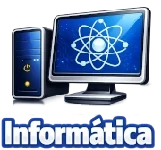
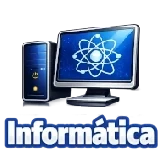
update

diff --git a/pages/inicio.html b/pages/inicio.html
@@ -8,22 +8,22 @@
 
     <div style="grid-template-columns: 1fr 1fr;" class="d-grid gap-3 text-center">
         <div class="p-2">
-            <img style="max-height: 9rem;" src="images/decoracao.webp" alt="icone_decoracao" onclick="carregarPagina('pages/decoracao.html')">
+            <img style="max-height: 9rem;" src="images/decoracao.webp" alt="icone_decoracao" onclick="carregarPaginaRolarTopo('pages/decoracao.html')">
         </div>
         <div class="p-2">
-            <img style="max-height: 9rem;" src="images/utensilios.webp" alt="icone_utensilios" onclick="carregarPagina('pages/utensilios.html')">
+            <img style="max-height: 9rem;" src="images/utensilios.webp" alt="icone_utensilios" onclick="carregarPaginaRolarTopo('pages/utensilios.html')">
         </div>
         <div class="p-2">
-            <img style="max-height: 9rem;" src="images/automotivo.webp" alt="icone_automotivo" onclick="carregarPagina('pages/automotivo.html')">
+            <img style="max-height: 9rem;" src="images/automotivo.webp" alt="icone_automotivo" onclick="carregarPaginaRolarTopo('pages/automotivo.html')">
         </div>
         <div class="p-2">
-            <img style="max-height: 9rem;" src="images/robotica.webp" alt="icone_robotica" onclick="carregarPagina('pages/robotica.html')">
+            <img style="max-height: 9rem;" src="images/robotica.webp" alt="icone_robotica" onclick="carregarPaginaRolarTopo('pages/robotica.html')">
         </div>
         <div class="p-2">
-            <img style="max-height: 9rem;" src="images/mobile.webp" alt="icone_mobile" onclick="carregarPagina('pages/mobile.html')">
+            <img style="max-height: 9rem;" src="images/mobile.webp" alt="icone_mobile" onclick="carregarPaginaRolarTopo('pages/mobile.html')">
         </div>
         <div class="p-2">
-            <img style="max-height: 9rem;" src="images/informatica.webp" alt="icone_informatica" onclick="carregarPagina('pages/informatica.html')">
+            <img style="max-height: 9rem;" src="images/informatica.webp" alt="icone_informatica" onclick="carregarPaginaRolarTopo('pages/informatica.html')">
         </div>
     </div>
 

diff --git a/js/script.js b/js/script.js
@@ -27,3 +27,9 @@ function carregarPagina(layout) {
       });
   });
 }
+
+function carregarPaginaRolarTopo(layout){
+  carregarPagina(layout).then(()=>{
+    window.scrollTo({top: 0,behavior: 'smooth'})
+  })
+}

diff --git a/css/style.css b/css/style.css
@@ -64,3 +64,7 @@ footer{
 a{
   text-decoration: none;
 }
+
+.sticky-top img{
+  margin-top: 0.5rem;
+}

diff --git a/pages/automotivo.html b/pages/automotivo.html
@@ -1,5 +1,5 @@
 <div class="sticky-top" style="margin-bottom: 2rem; background-color: #ffffff;">
-    <img style="max-height: 2rem;" src="images/icone_voltar.webp" alt="icone_voltar" onclick="carregarPagina('pages/inicio.html')">
+    <img style="max-height: 2rem;" src="images/icone_voltar.webp" alt="icone_voltar" onclick="carregarPaginaRolarTopo('pages/inicio.html')">
     <div> 
         <img src="images/icone_palavra_automotivo.webp" style="max-height: 2.5rem;" alt="icone_palavra_automotivo" class="mx-auto d-block">
     </div>

diff --git a/pages/decoracao.html b/pages/decoracao.html
@@ -1,5 +1,5 @@
 <div class="sticky-top" style="margin-bottom: 2rem; background-color: #ffffff;">
-    <img style="max-height: 2rem;" src="images/icone_voltar.webp" alt="icone_voltar" onclick="carregarPagina('pages/inicio.html')">
+    <img style="max-height: 2rem;" src="images/icone_voltar.webp" alt="icone_voltar" onclick="carregarPaginaRolarTopo('pages/inicio.html')">
     <div>
         <img src="images/icone_palavra_decoracao.webp" style="max-height: 2.5rem;" alt="icone_palavra_decoracao" class="mx-auto d-block">
     </div>        

diff --git a/pages/informatica.html b/pages/informatica.html
@@ -1,5 +1,5 @@
 <div class="sticky-top" style="margin-bottom: 2rem; background-color: #ffffff;">
-    <img style="max-height: 2rem;" src="images/icone_voltar.webp" alt="icone_voltar" onclick="carregarPagina('pages/inicio.html')">
+    <img style="max-height: 2rem;" src="images/icone_voltar.webp" alt="icone_voltar" onclick="carregarPaginaRolarTopo('pages/inicio.html')">
     <div> 
         <img src="images/icone_palavra_informatica.webp" style="max-height: 2.5rem;" alt="icone_palavra_robotica" class="mx-auto d-block">
     </div>

diff --git a/pages/mobile.html b/pages/mobile.html
@@ -1,5 +1,5 @@
 <div class="sticky-top" style="margin-bottom: 2rem; background-color: #ffffff;">
-    <img style="max-height: 2rem;" src="images/icone_voltar.webp" alt="icone_voltar" onclick="carregarPagina('pages/inicio.html')">
+    <img style="max-height: 2rem;" src="images/icone_voltar.webp" alt="icone_voltar" onclick="carregarPaginaRolarTopo('pages/inicio.html')">
     <div> 
         <img src="images/icone_palavra_mobile.webp" style="max-height: 2.5rem;" alt="icone_palavra_mobile" class="mx-auto d-block">
     </div>

diff --git a/pages/robotica.html b/pages/robotica.html
@@ -1,5 +1,5 @@
 <div class="sticky-top" style="margin-bottom: 2rem; background-color: #ffffff;">
-    <img style="max-height: 2rem;" src="images/icone_voltar.webp" alt="icone_voltar" onclick="carregarPagina('pages/inicio.html')">
+    <img style="max-height: 2rem;" src="images/icone_voltar.webp" alt="icone_voltar" onclick="carregarPaginaRolarTopo('pages/inicio.html')">
     <div> 
         <img src="images/icone_palavra_robotica.webp" style="max-height: 2.5rem;" alt="icone_palavra_robotica" class="mx-auto d-block">
     </div>

diff --git a/pages/utensilios.html b/pages/utensilios.html
@@ -1,5 +1,5 @@
 <div class="sticky-top" style="margin-bottom: 2rem; background-color: #ffffff;">
-    <img style="max-height: 2rem;" src="images/icone_voltar.webp" alt="icone_voltar" onclick="carregarPagina('pages/inicio.html')">
+    <img style="max-height: 2rem;" src="images/icone_voltar.webp" alt="icone_voltar" onclick="carregarPaginaRolarTopo('pages/inicio.html')">
     <div> 
         <img src="images/icone_palavra_utensilios.webp" style="max-height: 2.5rem;" alt="icone_palavra_utensilios" class="mx-auto d-block">
     </div>

diff --git a/index.html b/index.html
@@ -4,6 +4,7 @@
         <meta charset="UTF-8">
         <meta name="viewport" content="width=device-width, initial-scale=1.0">
         <title>Tiago Barros Impressões 3D</title>
+        <link rel="icon" type="image/webp" href="images/icone.webp">
         <link rel="stylesheet" href="css/bootstrap-5.3.8-css/bootstrap.min.css">
         <link rel="stylesheet" href="css/style.css">
         <script src="js/bootstrap-5.3.8-js/bootstrap.min.js"></script>